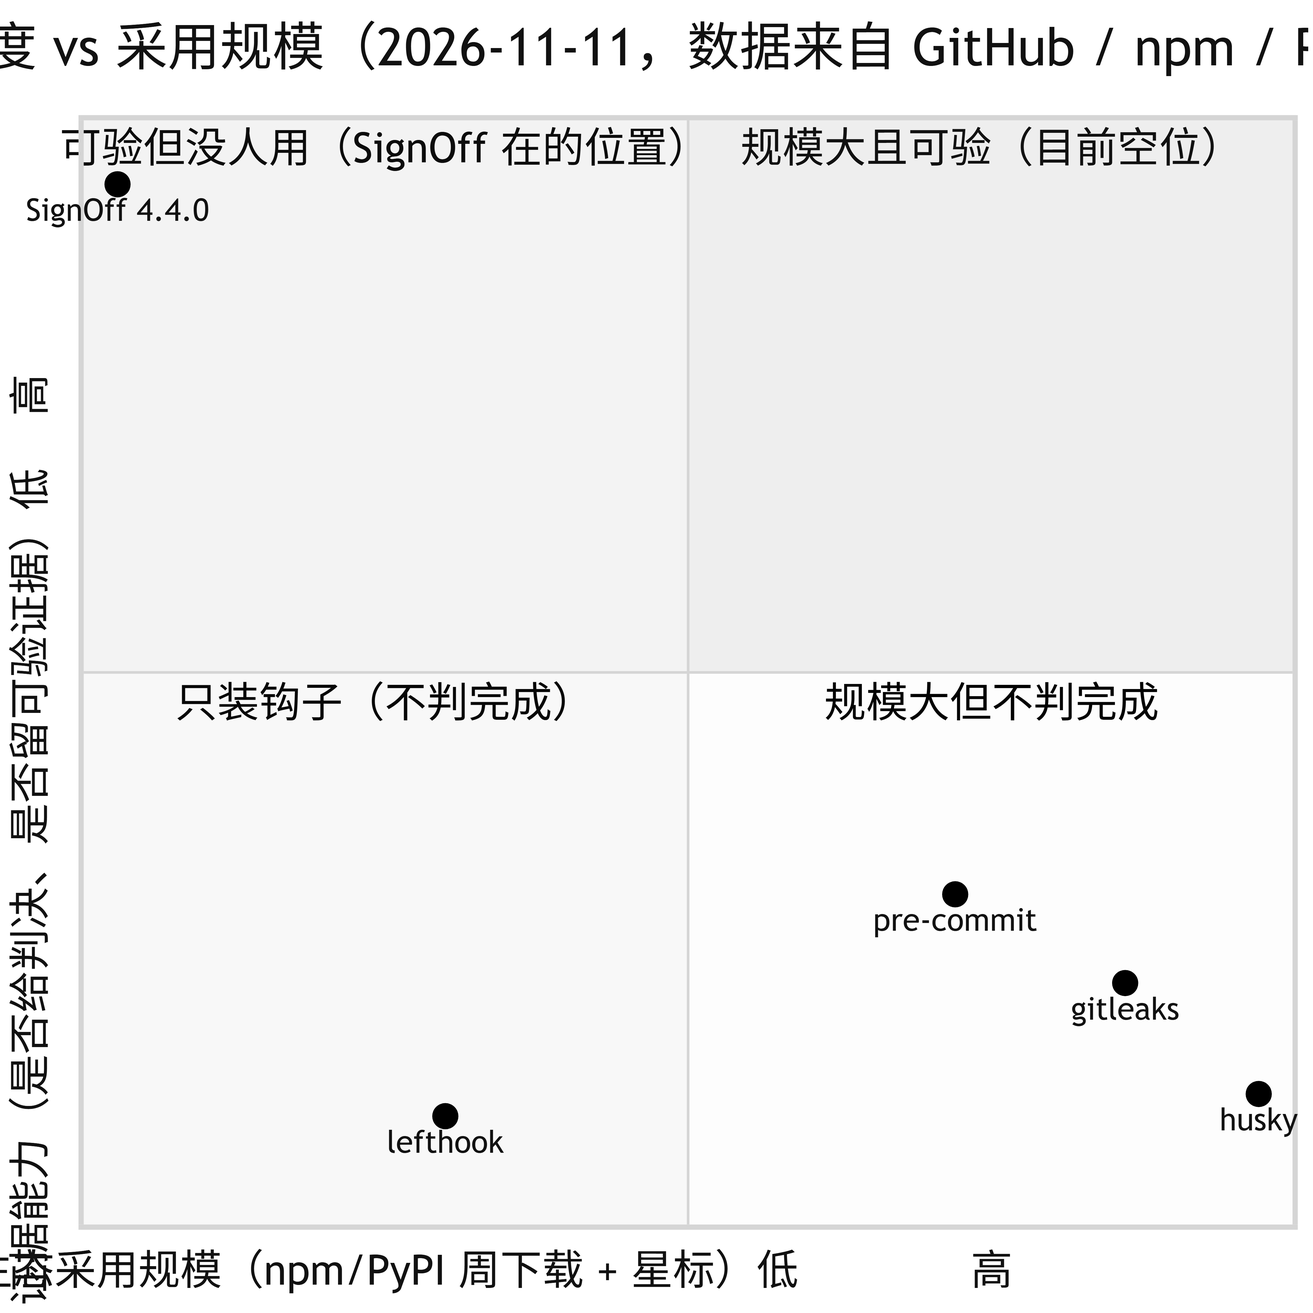
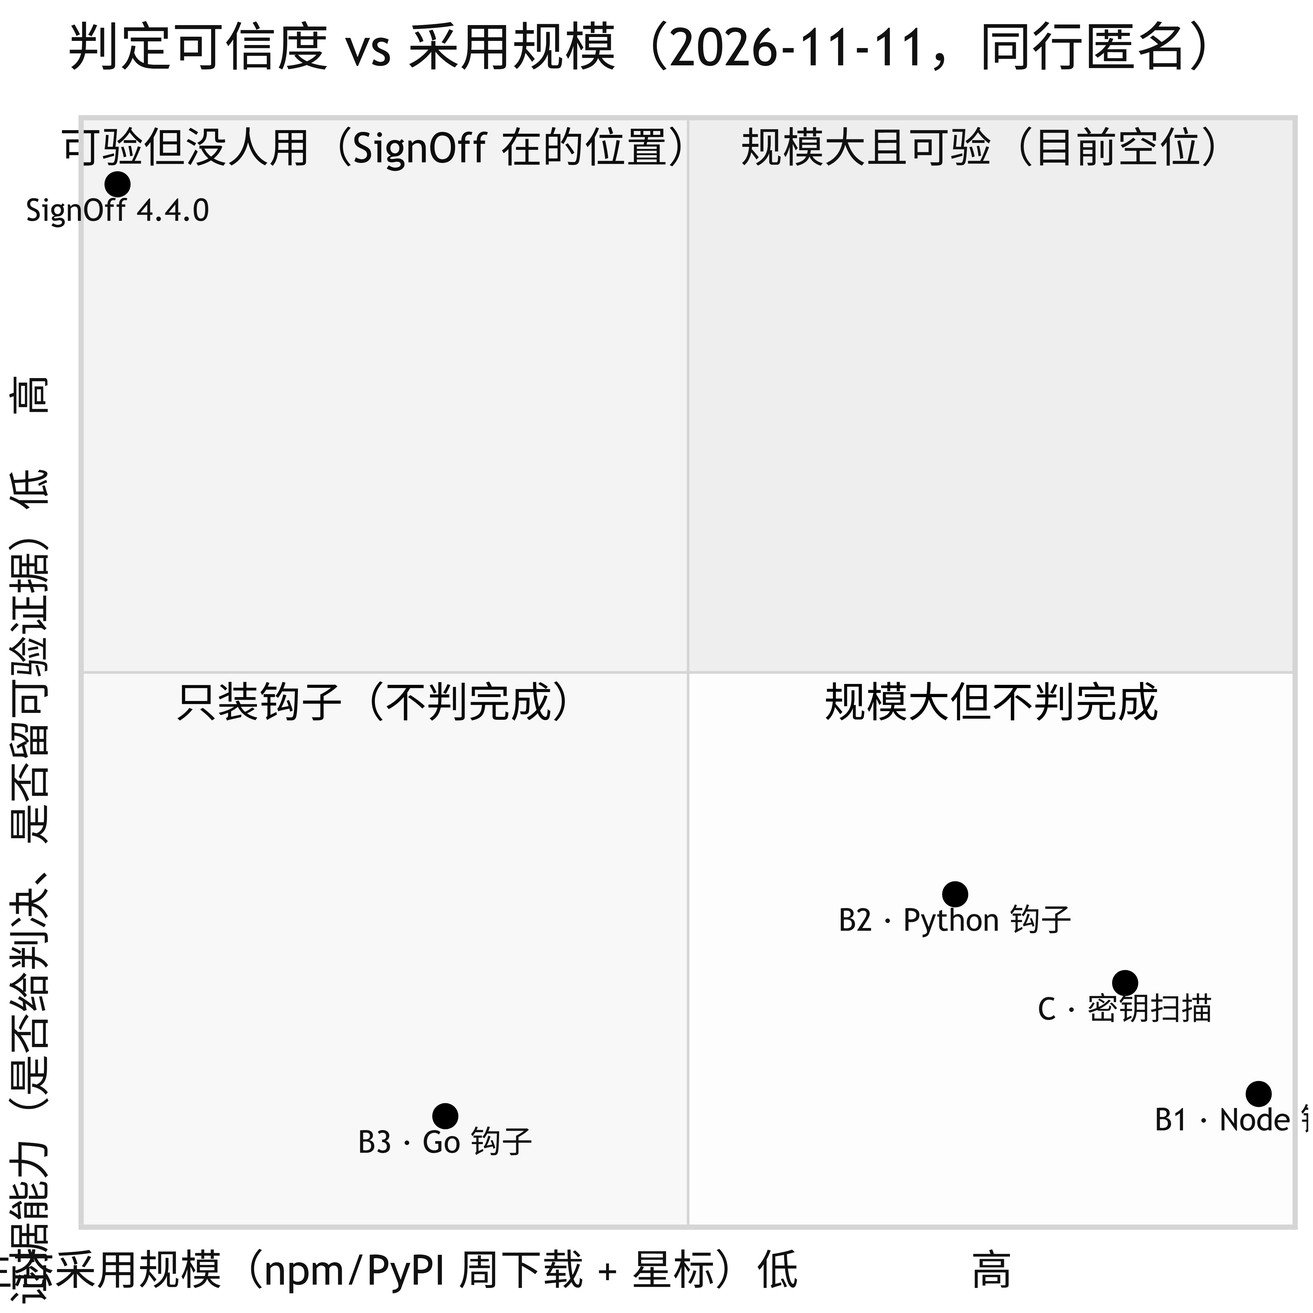
docs: 4.4.2 对比一律匿名（同行 A–F），不再点名与列星标下载 Signoff-Pass: 049c12b0f927

diff --git a/docs/COMPARISON.en.md b/docs/COMPARISON.en.md
@@ -1,100 +1,122 @@
-# How SignOff compares: position, numbers, quadrant
+# How SignOff compares: position, quadrant, scores
 
-> Data pulled 2026-11-11 from the GitHub REST API, the npm registry API and pypistats.
-> Every number is reproducible; the per-dimension scores are my judgement, with the reasoning in each row.
+> Anonymity rule (in force since 2026-11-11, for every comparison we publish): peers are labelled by category
+> only — A platform, B hooks (the three implementations are B1/B2/B3), C secret scan, D prose rules, E supply chain,
+> F coverage. No vendor names, no published mapping, no per-peer star or download figures; magnitudes at most.
+> The per-dimension scores are my judgement, with the reasoning in each row — not a third-party benchmark.
 
 ## 1. Position first
 
 SignOff is not a linter, not a formatter, not a code reviewer. It answers one question:
 **did this commit actually pass — and if it did, on what evidence?**
 
-So the real peers are not "find bugs for you" tools. They are the layer that decides whether a commit
-may enter: husky, pre-commit, lefthook. All four compete for the same file: `.git/hooks/pre-commit`.
+So the real peers are not "find bugs for you" reviewers. They are the layer that decides whether a commit
+may enter: the hook layer (B1 / B2 / B3). They compete with SignOff for the same file: `.git/hooks/pre-commit`.
 
-## 2. Real size
+## 2. Adoption size (magnitudes only)
 
-| Project | Form | Stars | Forks | Open issues | Last push | Weekly downloads |
-| --- | --- | --- | --- | --- | --- | --- |
-| husky | Node hook installer | 35,388 | 1,103 | 109 | 2026-03-19 | **49,271,405** (npm) |
-| pre-commit | Python hook framework | 15,691 | 1,020 | 25 | 2026-11-09 | **35,897,535** (PyPI) |
-| lefthook | Go hook runner | 9,019 | 336 | 115 | 2026-11-06 | 9,576,276 (npm) |
-| gitleaks | Secret scanning | 30,889 | 2,362 | 538 | 2026-10-28 | — (Go binary) |
-| **signoff-cli** | **Commit-time verdict + evidence** | **2** | 0 | 0 | **2026-11-11** | **3,237** (npm) |
+| Peer | Form | Adoption | Gives a verdict | Keeps evidence |
+| --- | --- | --- | --- | --- |
+| B1 | Node hook installer | tens of millions/week (npm) | no (exit code only) | no |
+| B2 | Python hook framework | tens of millions/week (PyPI) | partial (records that it ran) | no |
+| B3 | Go hook runner | close to ten million/week (npm) | no | no |
+| C | Secret scan (single binary) | tens of thousands of stars | one-gate result | scan report only |
+| **SignOff** | **commit-time verdict + evidence** | **a few thousand/week (npm)** | **yes** | **yes** |
 
-Two facts stand out:
+Two things a reader sees immediately:
 
-1. **Four orders of magnitude apart** (3,237/week vs 49,271,405/week). That is a distribution gap, not a quality gap:
-   husky ships in thousands of scaffolds by default; SignOff has to be installed on purpose.
-2. **SignOff is the only one here that both judges and keeps evidence** — and the least used. Both are true.
+1. **Four to five orders of magnitude apart.** Not "built worse" — a **distribution** gap:
+   B1 ships inside the `package.json` of tens of thousands of scaffolds; SignOff has to be installed on purpose.
+2. **SignOff is the only one here that both decides and keeps evidence — and it is the least used.** Both are true.
 
 ## 3. Six dimensions (0–5)
 
-| Dimension | husky | pre-commit | lefthook | gitleaks | SignOff |
+Scored on behaviour that can be checked in each project's own documentation, not on marketing copy.
+
+| Dimension | B1 | B2 | B3 | C | SignOff |
 | --- | --- | --- | --- | --- | --- |
-| Verdict (machine-readable "done / not done") | 1 | 2 | 1 | 3 | **5** |
-| Evidence (record you can re-check later) | 0 | 1 | 0 | 1 | **5** |
-| Coverage (how many delivery failures at once) | 1 | 2 | 1 | 1 | **5** |
-| Low barrier (fewer dependencies = higher) | 5 | 4 | 5 | 5 | 4 |
-| Agent fit (MCP / exit codes / non-interactive) | 2 | 3 | 2 | 3 | **5** |
-| Adoption (external data) | **5** | **5** | 4 | **5** | 1 |
+| Verdict (machine-readable conclusion about "done") | 1 | 2 | 1 | 3 | **5** |
+| Evidence (records you can re-check later) | 0 | 1 | 0 | 1 | **5** |
+| Coverage (how many delivery failures one run covers) | 1 | 2 | 1 | 1 | **5** |
+| Footprint (fewer dependencies scores higher) | 5 | 4 | 5 | 5 | 4 |
+| Agent fit (MCP / exit code / no interaction) | 2 | 3 | 2 | 3 | **5** |
+| Scale (adoption, external data) | **5** | **5** | 4 | **5** | 1 |
 | **Total** | 14 | 17 | 13 | 18 | **25** |
 
 Why each cell:
 
-- **husky** installs a hook and runs your command. Non-zero exit blocks the commit; nothing is explained or recorded.
-  Minimal dependency, one line of config — full marks on barrier.
-- **pre-commit** adds hook sourcing, pinning and per-language environments, so it scores one step higher on coverage
-  and barrier. It records that a hook ran, not what the verdict for this commit was.
-- **lefthook** runs hooks in parallel as a single Go binary. Same position as husky: no verdict, no evidence.
-- **gitleaks** goes deep on one thing (secrets) with its own rules and baseline, hence verdict 3; but that is the only
-  question it answers.
-- **SignOff** has one gate per failure mode, the verdict is the exit code, and a passing commit leaves a marker,
-  a signed trailer, a hash-chained ledger and a checkpoint with a publishable anchor. It loses one barrier point:
-  Node 18+ and a git repo, plus one `signoff init` to install hooks.
+- **B1**: installs the hook and calls your command. A non-zero exit blocks the commit; beyond that it neither
+  explains nor records anything. Almost no dependencies, one line of config — hence the full footprint score.
+- **B2**: adds a layer of "hook source + version + language environment" management and can run other people's
+  hooks across languages, so coverage and footprint are a notch better. It records *that* it ran, not what the
+  verdict for this commit was.
+- **B3**: parallel execution, single binary, fast. Same position as B1, and the same zero for verdict and evidence.
+- **C**: deep in one place (secrets), with its own rules and baselines, so the verdict score is 3 — but it answers
+  only "is there a secret".
+- **SignOff**: one gate per class of failure, the verdict is the exit code, and a pass leaves a marker + a signed
+  trailer + a hash-chained ledger + an anchored checkpoint. Loses one footprint point: needs Node 18+ and a git
+  repo, and installing the hook takes one `signoff init`.
 
-## 4. The quadrant
+## 4. Four quadrants
 
-![verdict trust vs adoption](https://raw.githubusercontent.com/ayuanxx-max/signoff-cli/master/docs/diagrams/quadrant.png)
+![Verdict trustworthiness vs adoption](https://raw.githubusercontent.com/ayuanxx-max/signoff-cli/master/docs/diagrams/quadrant.png)
 
-- **Bottom-right (big, no verdict)** — husky, lefthook, gitleaks: they run checks, they do not declare completion.
-- **Top-right (big and verifiable)** — empty. SignOff does not occupy it; it cannot reach it yet.
-- **Top-left (verifiable, unused)** — where SignOff is. Products in this quadrant tend to disappear:
-  not because they are wrong, but because nobody needs them yet.
-- **Bottom-left** — a hook that judges nothing, i.e. not installed.
+The horizontal axis is external adoption, the vertical axis is "verdict + evidence". The quadrant names are the
+conclusion:
 
-The point of showing this: **SignOff's constraint is demand, not capability.** Moving right requires either being
-pulled into someone's default config (distribution) or being forced by a real scenario (use case).
+- **Bottom right (large, decides nothing)**: B1 / B3 / C. They make checks run; they do not declare completion.
+- **Top right (large and verifiable)**: empty today. That is not a position SignOff holds — it is one it cannot reach.
+- **Top left (verifiable, nobody uses it)**: SignOff sits here now. Honestly, products in this quadrant disappear
+  most easily — not because they are wrong, but because nobody needs them yet.
+- **Bottom left**: a hook installed that decides nothing, which is the same as no hook.
+
+The point of the picture: **SignOff's problem is not capability, it is that demand has not caught up.**
+Moving right means either being carried by someone else's defaults (distribution) or being forced by a real
+situation (scenario).
 
 ## 5. Where it fits
 
-**Good fit:** repos where agents write code; multiple agents editing one repo (P3 catches file collisions before CI);
-teams that must answer "did that commit actually pass" after the fact; pre-release self-consistency;
-any language, as long as Node 18+ and git exist.
+**Fits**
 
-**Bad fit:** non-git directories; anyone who wants a tool to "fix it until green" (a judge must not also play);
-runtime sandboxing against malicious commands (use containers — see `docs/threat-model.md`);
-build orchestration for huge monorepos (use CI).
+| Situation | Why this |
+| --- | --- |
+| Repos where agents deliver code | "I'm done" is the claim with the least evidence; the five gates map to the five usual overclaims |
+| Several agents editing one repo | P3 catches colliding files before the commit, not after CI breaks |
+| Answering "did that one pass?" months later | ledger + checkpoint + anchor, re-checkable entry by entry |
+| Last step before a release | `signoff release --pre` runs 14 offline consistency checks |
+| Small language-agnostic teams | Node 18+ and git only; no Python/Go/container requirement |
 
-## 6. What changed in 4.4.0
+**Does not fit**
+
+| Situation | Use instead |
+| --- | --- |
+| Not a git repository | no hook, and no tree to sign |
+| "Fix it until it is green" | a verdict tool should not be a participant; use a linter/fixer |
+| Runtime sandboxing against hostile commands | container/CI isolation; see the "what we do not do" list in `docs/threat-model.md` |
+| Build orchestration for a huge monorepo | CI matrices and caching; SignOff only decides, it does not build |
+
+## 6. What changed from 4.3.1 to 4.4.0
 
 ![4.3.1 to 4.4.0](https://raw.githubusercontent.com/ayuanxx-max/signoff-cli/master/docs/diagrams/before-after.png)
 
 | Dimension | 4.3.1 | 4.4.0 |
 | --- | --- | --- |
-| Downstream dependency | read `report --json`, guess the fields | `report --schema` with three stability levels |
-| Up/downstream boundary | verbal | `docs/INTEGRATION-CONTRACT.md` |
-| Self-architecture check | none | `arch-health`: four rules + baseline (38/40 today) |
-| Value metrics | none | flip rate 42.9% / 2.33 rework rounds / 0% skips (dsh-signoff sample) |
-| Security disclosure | no `SECURITY.md` | explicit "no third-party audit" + A1–A7 + 9-item checklist |
+| How downstream depends on it | read `report --json`, guess the fields | `signoff report --schema` states three levels of stability |
+| Upstream/downstream boundary | verbal | `docs/INTEGRATION-CONTRACT.md`: upstream only produces inputs, downstream only consumes outputs |
+| Architecture self-check | none | `arch-health` with four rules + a baseline ledger (38/40 today) |
+| Value measurement | none | reversal rate 42.9% / rework 2.33 rounds / skip rate 0% (dsh-signoff sample) |
+| Security disclosure | no `SECURITY.md` | states "not third-party audited" + A1–A7 + a 9-item readiness list |
 | Deletion discipline | none | D1–D4 |
-| Verdict logic | — | **unchanged** (exit codes 0/1/2, five gates, ledger format) |
+| Verdict logic | — | **unchanged** (exit codes 0/1/2, five gates, ledger format all as before) |
 
-## 7. Honest gaps
+## 7. The honest gaps
 
-1. **2 stars vs 35,388.** No single release closes that; only entering other people's defaults does.
-2. **3,237 weekly downloads** include CI and repeated `npx` calls; I have not separated unique humans.
-3. **No third-party security audit** (stated in `SECURITY.md`) and no external user case study.
-4. Adoption is one of six dimensions and SignOff scores 1 there. **If you select tools by adoption, do not pick it today.**
-   The only reason is that you need the verdict and evidence nobody else provides.
+1. **This tool: single-digit stars, a few thousand weekly downloads. B1: tens of thousands of stars, tens of
+   millions of weekly downloads.** Four to five orders of magnitude — not something one release closes; it takes
+   getting into other people's default configuration.
+2. Of those few thousand weekly downloads, how many are CI and npx repeats is unknown to me; the real user count is not.
+3. **No third-party security audit** (`SECURITY.md` says so) and no external user case studies.
+4. "Scale" is one of the six dimensions and SignOff scores 1 on it — **if you choose by adoption, today is not the
+   day to pick it.** The only reason is that you need the verdict and evidence nobody else provides.
 
-中文版：[`COMPARISON.md`](COMPARISON.md)
+Chinese original: [`COMPARISON.md`](COMPARISON.md)

diff --git a/docs/COMPARISON.md b/docs/COMPARISON.md
@@ -1,37 +1,38 @@
-# 与同类工具的对比：位置、数据、象限
+# 与同类工具的对比：位置、象限、打分
 
-> 取数时间 2026-11-11（GitHub REST API、npm registry API、pypistats API）。
-> 所有数字都可复算；分维度打分是我的判断，依据写在每一行里，不当成第三方评测。
+> 匿名约定（2026-11-11 起，所有对比一律照此）：同行只按类型标记——A 平台级、B 钩子层（三家分别记 B1/B2/B3）、
+> C 密钥扫描、D 文本规则、E 供应链证明、F 覆盖率。本文不点名、不公开对应关系，也不列对方的星标与下载数，
+> 需要时说量级。分维度打分是我的判断，依据写在每一行里，不当成第三方评测。
 
 ## 1. 先说位置
 
 SignOff 不是 lint、不是格式化、也不是代码审查。它只回答一句：
 **这次提交，到底过没过；过了，凭什么。**
 
-所以真正的同类不是 CodeRabbit 那类"帮你找 bug"的工具，而是**决定提交能不能进的那一层**：
-husky、pre-commit、lefthook。它们和 SignOff 抢同一个位置——`.git/hooks/pre-commit`。
+所以真正的同类不是"帮你找 bug"的审查层，而是**决定提交能不能进的那一层**：钩子层（B1 / B2 / B3）。
+它们和 SignOff 抢同一个位置——`.git/hooks/pre-commit`。
 
-## 2. 真实规模数据
+## 2. 采用规模（只说量级）
 
-| 项目 | 形态 | GitHub 星标 | Fork | 开放 issue | 最近推送 | 周下载 |
-| --- | --- | --- | --- | --- | --- | --- |
-| husky | Node 钩子安装器 | 35,388 | 1,103 | 109 | 2026-03-19 | **49,271,405**（npm） |
-| pre-commit | Python 钩子框架 | 15,691 | 1,020 | 25 | 2026-11-09 | **35,897,535**（PyPI） |
-| lefthook | Go 钩子运行器 | 9,019 | 336 | 115 | 2026-11-06 | 9,576,276（npm） |
-| gitleaks | 密钥扫描 | 30,889 | 2,362 | 538 | 2026-10-28 | —（Go 二进制） |
-| **signoff-cli** | **提交时判定 + 证据** | **2** | 0 | 0 | **2026-11-11** | **3,237**（npm） |
+| 同行 | 形态 | 采用量级 | 给判决 | 留证据 |
+| --- | --- | --- | --- | --- |
+| B1 | Node 钩子安装器 | 数千万/周（npm） | 否（只传退出码） | 否 |
+| B2 | Python 钩子框架 | 数千万/周（PyPI） | 半（记录跑没跑） | 否 |
+| B3 | Go 钩子运行器 | 近千万/周（npm） | 否 | 否 |
+| C | 密钥扫描（单二进制） | 数万 star 级 | 单关结论 | 只留扫描报告 |
+| **SignOff** | **提交时判定 + 证据** | **数千/周（npm）** | **是** | **是** |
 
 一眼看出的两件事：
 
-1. **规模差四个数量级**（3,237 / 周 vs 49,271,405 / 周）。这不是"做得不够好"，是**分发方式**的差距：
-   husky 被数万个脚手架的 `package.json` 默认带上，SignOff 需要有人主动装。
+1. **规模差四到五个数量级。** 这不是"做得不够好"，是**分发方式**的差距：
+   B1 被数万个脚手架的 `package.json` 默认带上，SignOff 需要有人主动装。
 2. **SignOff 是这几家里唯一"既判定又留证据"的**，也是最没人用的。这两件事同时成立。
 
 ## 3. 六个维度打分（0–5）
 
 打分只看各自文档里能核对的行为，不看宣传语。
 
-| 维度 | husky | pre-commit | lefthook | gitleaks | SignOff |
+| 维度 | B1 | B2 | B3 | C | SignOff |
 | --- | --- | --- | --- | --- | --- |
 | 判决（是否对"完成"下可机读结论） | 1 | 2 | 1 | 3 | **5** |
 | 证据（可事后核验的记录） | 0 | 1 | 0 | 1 | **5** |
@@ -43,12 +44,12 @@ husky、pre-commit、lefthook。它们和 SignOff 抢同一个位置——`.git/
 
 每格的理由：
 
-- **husky**：只负责"把钩子装上并调用你的命令"。命令退出码非 0 就拦住提交，除此之外不解释、不记账。
+- **B1**：只负责"把钩子装上并调用你的命令"。命令退出码非 0 就拦住提交，除此之外不解释、不记账。
   依赖极少、配置一行，所以门槛满分。
-- **pre-commit**：多一层"钩子来源 + 版本 + 语言环境"的管理，能跨语言跑别人的钩子，所以覆盖与门槛都好一档；
+- **B2**：多一层"钩子来源 + 版本 + 语言环境"的管理，能跨语言跑别人的钩子，所以覆盖与门槛都好一档；
   它记录的是"跑没跑"，不记录"这次提交的判定是什么"。
-- **lefthook**：并发跑、Go 单二进制、速度快。定位和 husky 相同，判定与证据同样为零。
-- **gitleaks**：单点做得很深（密钥），有自己的规则与基线，所以判决给 3；但它只回答"有没有密钥"。
+- **B3**：并发跑、单二进制、速度快。定位与 B1 相同，判定与证据同样为零。
+- **C**：单点做得很深（密钥），有自己的规则与基线，所以判决给 3；但它只回答"有没有密钥"。
 - **SignOff**：五类失败各有一关，判定即退出码，过闸留 marker + 签名 trailer + 哈希链账本 + 带锚点的检查点。
   门槛扣 1 分：需要 Node 18+ 与一个 git 仓库，装钩子要跑一次 `signoff init`。
 
@@ -58,7 +59,7 @@ husky、pre-commit、lefthook。它们和 SignOff 抢同一个位置——`.git/
 
 横轴是外部采用规模，纵轴是"判决 + 证据"能力。四个象限的名字就是结论：
 
-- **右下（规模大、不判完成）**：husky / lefthook / gitleaks。它们做的是"把检查跑起来"，不是"宣布完成"。
+- **右下（规模大、不判完成）**：B1 / B3 / C。它们做的是"把检查跑起来"，不是"宣布完成"。
 - **右上（规模大且可验）**：目前是空的。这不是 SignOff 已经占住的位置，是它**够不到**的位置。
 - **左上（可验但没人用）**：SignOff 现在在这里。诚实说，这个象限的产品最容易消失——
   不是因为它错了，是因为没人需要它。
@@ -104,8 +105,9 @@ husky、pre-commit、lefthook。它们和 SignOff 抢同一个位置——`.git/
 
 ## 7. 诚实的差距
 
-1. **星标 2 vs 35,388。** 这不是靠一个版本能追的，只能靠"进入别人的默认配置"。
-2. **周下载 3,237** 里有多少是 CI 与 npx 重复调用，我没有拆开；真实人数未知。
+1. **本工具 star 个位数、周下载数千；B1 是数万 star、数千万周下载。** 差四到五个数量级，
+   不是一个版本能追的，只能靠"进入别人的默认配置"。
+2. **周下载数千**里有多少是 CI 与 npx 重复调用，我没有拆开；真实人数未知。
 3. **没有第三方安全审计**（`SECURITY.md` 已明写），也没有外部用户案例。
 4. 打分表里"规模"占一维，SignOff 只拿 1 分——**如果按采用量选型，今天就不该选它**。
    它的理由只能是：你需要那个别人不提供的判决与证据。

diff --git a/CHANGELOG.md b/CHANGELOG.md
@@ -1,3 +1,33 @@
+## 4.4.2
+
+**对比一律匿名：同行只说类型（A–F），不点名、不列对方的星标与下载数。**
+
+- 同一套匿名标记贯穿全部对外文字：A 平台级、B 钩子层（B1/B2/B3）、C 密钥扫描、D 文本规则、E 供应链证明、
+  F 覆盖率。`docs/COMPARISON.md`、`COMPARISON.en.md`、README 第八节、`docs/trust.md`、`docs/promotion.md`
+  全部改用这套标记；采用规模只留量级（"数千万/周""数万 star 级"），不再逐家列数字。
+- 象限图重画：`docs/diagrams/src/quadrant.mmd` 的四个点改成 B1/B2/B3/C；`signoff-3-user*.mmd` 里
+  "仓库已有 husky 等钩子"改成"已装别人的钩子（B1 类安装器）"。
+- 规则写进 `docs/prerequisites.md` 与 `docs/COMPARISON.md` 开头，以后新写的对比照此办理。
+  例外只留给机械标识：`--engine gitleaks` 这类命令行取值、`.pre-commit-config.yaml` 这类文件名，
+  以及"怎么和已有钩子共存"的操作步骤。
+- 行为无变化：判定、退出码 0/1/2、账本格式、页面结构都没动。
+
+### English
+
+**Comparisons are anonymous from here on: peers are labelled by type (A–F), with no vendor names and no
+per-peer star or download figures.**
+
+- One label scheme across every outward-facing text: A platform, B hooks (B1/B2/B3), C secret scan, D prose rules,
+  E supply chain, F coverage. `docs/COMPARISON.md`, `COMPARISON.en.md`, section 8 of the README, `docs/trust.md`
+  and `docs/promotion.md` all use it; adoption is stated as a magnitude ("tens of millions/week") instead of a
+  per-vendor table.
+- Redrawn quadrant: the four points in `docs/diagrams/src/quadrant.mmd` are now B1/B2/B3/C, and
+  `signoff-3-user*.mmd` says "another hook layer (a B1-style installer)" instead of naming one.
+- The rule is recorded in `docs/prerequisites.md` and at the top of `docs/COMPARISON.md`; future comparisons
+  follow it. The only exceptions are mechanical identifiers: CLI values such as `--engine gitleaks`, file names
+  such as `.pre-commit-config.yaml`, and the how-to steps for coexisting with an existing hook.
+- No behaviour change: verdicts, exit codes, ledger format and page structure are untouched.
+
 ## 4.4.1
 
 **只改文档：把 4.4.0 的对比与象限说明带进 npm 页面。判定逻辑与代码未改。**

diff --git a/docs/trust.md b/docs/trust.md
@@ -64,8 +64,8 @@ CI 里：
 
 ## 和同类的位置
 
-- gitleaks / Vale / diff-cover：只有单关结论，没有账本。
-- pre-commit / husky / lefthook：只负责"跑"，不负责"留下可核对的记录"。
+- 密钥扫描 / 文本规则 / 覆盖率（同行 C / D / F）：只有单关结论，没有账本。
+- 钩子层（同行 B1 / B2 / B3）：只负责"跑"，不负责"留下可核对的记录"。
 - in-toto：有规范化的 attestation 与供应链验证，但要求 layout、签名密钥与验证器一整套基础设施。
 - 落印：一条命令给出"提交 + 账本 + 检查点 + 可发布锚点"，代价是自签、格式私有。
 
